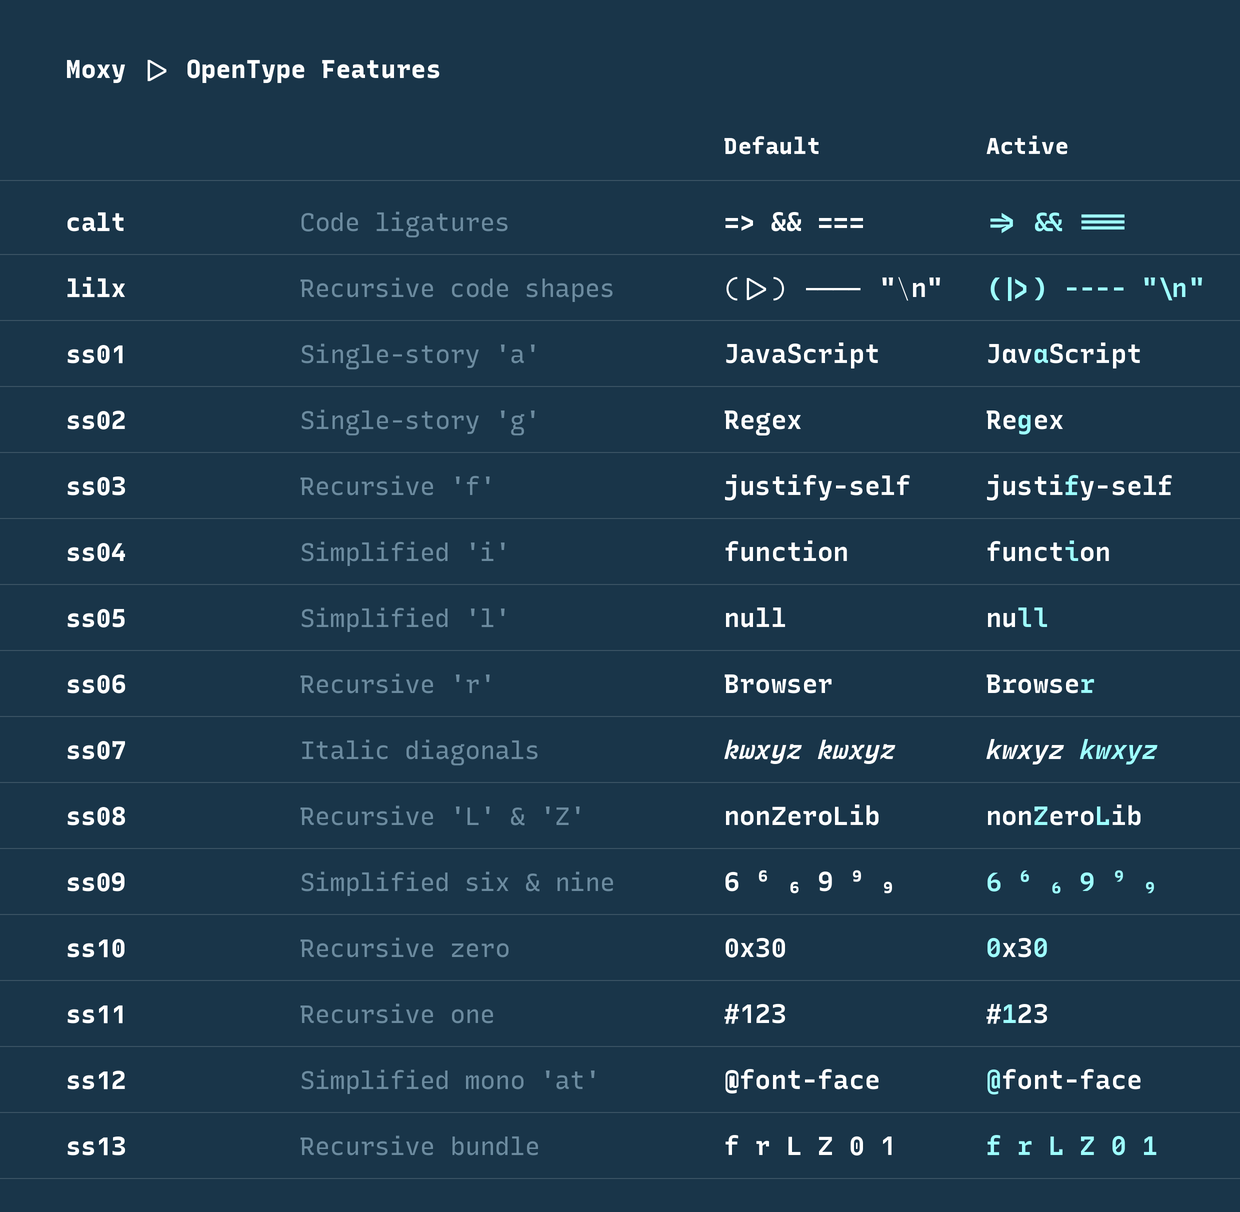
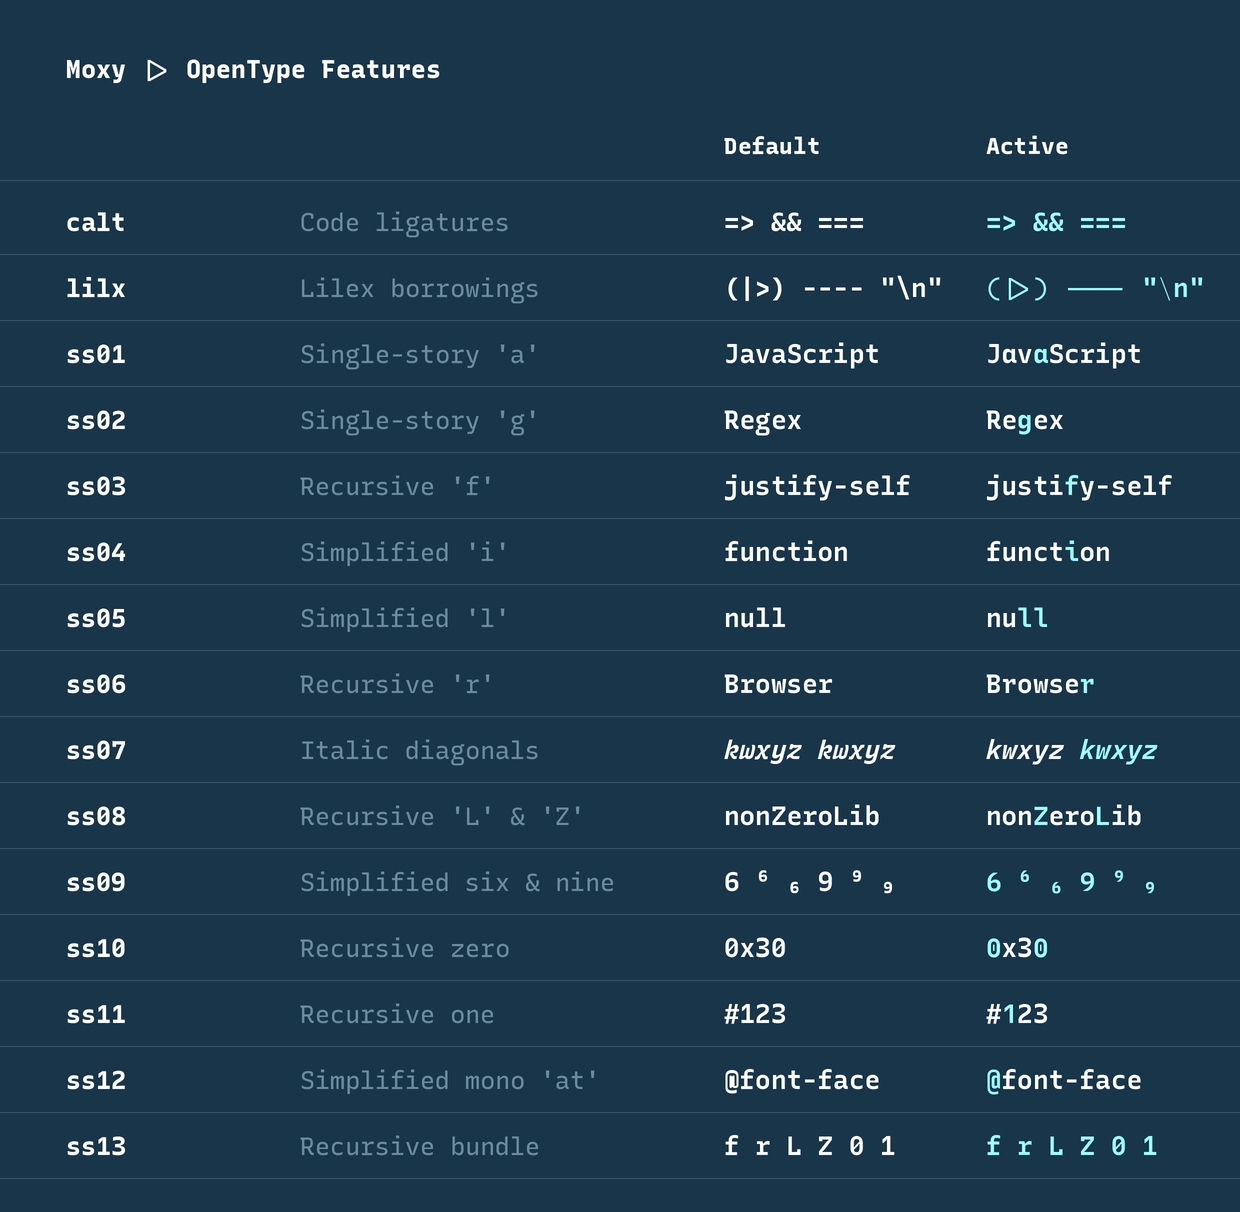
docs: refresh VF usage and branding

diff --git a/scripts/dev/render_specimens.py b/scripts/dev/render_specimens.py
@@ -35,6 +35,7 @@ PAL = {
     "comment": "#0088ff",
 }
 DOTS = ["#ff5f56", "#ffbd2e", "#27c93f"]  # mac traffic lights
+MOXY_FEATURES = ("calt", "moxy", "lilx")
 
 
 # ----------------------------------------------------------------- spec parsing
@@ -162,7 +163,8 @@ def render_specimen(sec):
     for i, line in enumerate(lines):
         m = re.match(r"^\[(\w+)\](.*)$", line)
         color, txt = (PAL.get(m.group(1), PAL["text"]), m.group(2)) if m else (PAL["text"], line)
-        draw(d, (card_x + 30, card_y + pad_top + i * lh), txt, cf, color)
+        draw(d, (card_x + 30, card_y + pad_top + i * lh), txt, cf, color,
+             feats=MOXY_FEATURES)
     save(img, sec["out"])
 
 
@@ -191,7 +193,7 @@ def render_comparison(sec):
             d.line([lblx * S, (y - 8) * S, (W - 40) * S, (y - 8) * S], fill="#23394a", width=S)
         draw(d, (lblx, y + 8), label, moxy(20, 430), PAL["dim"])
         draw(d, (colL, y + 2), sample, rf, PAL["muted"], feats=("dlig", "calt"))
-        draw(d, (colR, y + 2), sample, mf, PAL["text"], feats=("calt",))
+        draw(d, (colR, y + 2), sample, mf, PAL["text"], feats=MOXY_FEATURES)
     save(img, sec["out"])
 
 
@@ -216,7 +218,7 @@ def render_opentype_features(sec):
     sample_sans = moxy(26, 650, mono=0)
     sample_sans_italic = moxy(26, 650, mono=0, slnt=-15, crsv=1)
 
-    draw(d, (x_tag, title_y), title, title_f, PAL["text"], feats=())
+    draw(d, (x_tag, title_y), title, title_f, PAL["text"], feats=MOXY_FEATURES)
     draw(d, (x_default, header_y), "Default", head_f, PAL["text"], feats=())
     draw(d, (x_active, header_y), "Active", head_f, PAL["text"], feats=())
     d.line([0, (row_top - 8) * S, W * S, (row_top - 8) * S], fill=PAL["dim"], width=S)

diff --git a/README.md b/README.md
@@ -25,24 +25,37 @@ and install the `.ttf` files (macOS: open them in Font Book).
 
 ### Use it
 
-Set the family name to **`Moxy`** in your editor / terminal.
+The Homebrew cask installs the static family as **`Moxy Static`**. The static
+fonts bake in the Moxy look, so no OpenType feature toggles are needed.
 
 For example in [Ghostty](https://ghostty.org):
 
 ```ini
-font-family = Moxy
-# below are my preferences
-adjust-cell-height      = 10
-font-size               = 13
-font-variation          = wght=375
+font-family = Moxy Static
+font-size = 13.5
+adjust-cell-height = 9
 ```
 
-Most editors enable contextual ligatures (`calt`) by default, which is what Moxy
-uses for connected dashes, long arrows, and the rest. In VS Code, turn them on
-with:
+If you build/install the variable font yourself, use the **`Moxy`** family and
+turn on the opt-in Moxy features:
+
+```ini
+font-family = Moxy
+font-feature = moxy,lilx
+font-variation = CASL=1
+```
+
+`wght=375` is already the variable font's default, so leave it out unless you
+want a different weight. In Ghostty, setting a redundant `wght=375` can interfere
+with the visible `CASL` change on macOS.
+
+Most editors keep contextual alternates (`calt`) on by default; Moxy uses `calt`
+for the always-on long-arrow repair. The variable font's `moxy` / `lilx` toggles
+are custom features, so enable them explicitly where your editor supports
+OpenType feature settings. In VS Code:
 
 ```jsonc
-"editor.fontLigatures": true
+"editor.fontLigatures": "'calt', 'moxy', 'lilx'"
 ```
 
 ## What's different from Recursive
@@ -59,7 +72,7 @@ features on top:
 - `moxy` — turn **on** the Moxy letterform set: single-story `g`, simplified
   `f r 6 9 1`, dotted `0`, fancy long-tail `Q`.
 - `lilx` — turn **on** the Lilex borrowings: curvy parens, connected
-  dashes/bars, thin escape backslash.
+  `|>` / `<|` bars, connected dashes, thin escape backslash.
 - `ss02 / ss03 / ss06 / ss09 / ss10 / ss11 / titl` — enable one letterform at
   a time (these compose with `moxy`).
 

diff --git a/images/branding/specimens.md b/images/branding/specimens.md
@@ -11,7 +11,8 @@ Format:
 - `- key: value` lines set parameters for that section.
 - A fenced code block holds the specimen's code lines. Prefix a line with a color
   in brackets to tint it — one of: `text` (default), `muted`, `green`, `blue`,
-  `peach`, `mauve`, `pink`. Lines are rendered verbatim (ligatures via `calt`).
+  `peach`, `mauve`, `pink`. Moxy specimens use the full VF look (`calt`, `moxy`,
+  `lilx`).
 - A markdown table (`| label | sample |`) holds the comparison rows. The sample is
   drawn twice — once in Recursive, once in Moxy. Escape a literal pipe as `\|`.
 - The OpenType feature table uses `{braces}` in the Active column to color the
@@ -23,7 +24,7 @@ Format:
 - tagline: a monospaced | coding font
 
 ```
-fn pipe(xs):  xs |> map(f) |> sum             # connected  |>
+fn pipe(xs):  xs |> map(f) |> sum             # lilx connected  |>
 [green]contiguous lines: --------------------        # show as a single line
 [peach]route: -> --> ---> -----> <- <-- <--- <-----  # long arrows
 [blue]\n \r \o \t   r'\[(?:[^][]|\\[\[\]]|(?R))*\]' # thin escape  \\
@@ -52,7 +53,7 @@ ids:  0 1 f r L Z   <=  >=  ===  ->  =>       # letterforms
 | tag | description | default | active | active features | style | default features |
 | --- | --- | --- | --- | --- | --- | --- |
 | calt | Code ligatures | => && === | {=> && ===} | calt | mono | -calt |
-| lilx | Recursive code shapes | (\|>) ---- "\n" | {(\|>) ---- "\n"} | calt,lilx | mono | calt |
+| lilx | Lilex borrowings | (\|>) ---- "\n" | {(\|>) ---- "\n"} | lilx | mono |  |
 | ss01 | Single-story 'a' | JavaScript | Jav{a}Script | ss01 | mono |  |
 | ss02 | Single-story 'g' | Regex | Re{g}ex | ss02 | mono |  |
 | ss03 | Recursive 'f' | justify-self | justi{f}y-self | ss03 | mono |  |